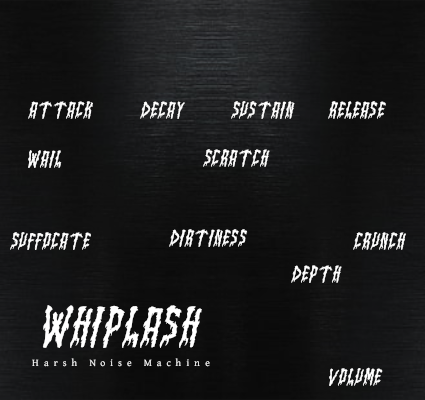
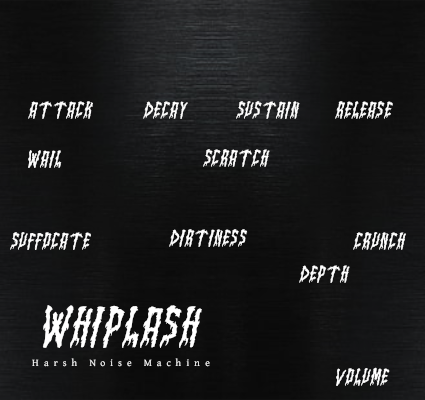
Update misalignment and stretching issue and recolor borders

diff --git a/README.md b/README.md
@@ -1,7 +1,2 @@
-# HNW
-
-I'm calling this whiplash now.
-
-## Things to figure out/and actually do
-* Make a decent GUI background (I already got the knobs figured out)
-* Figure out if I have to license this under a VST license or if I can get away with licensing my code under a BSD-3 license because I like that license a lot
+# Whiplash
+Whiplash is a harsh noise 
